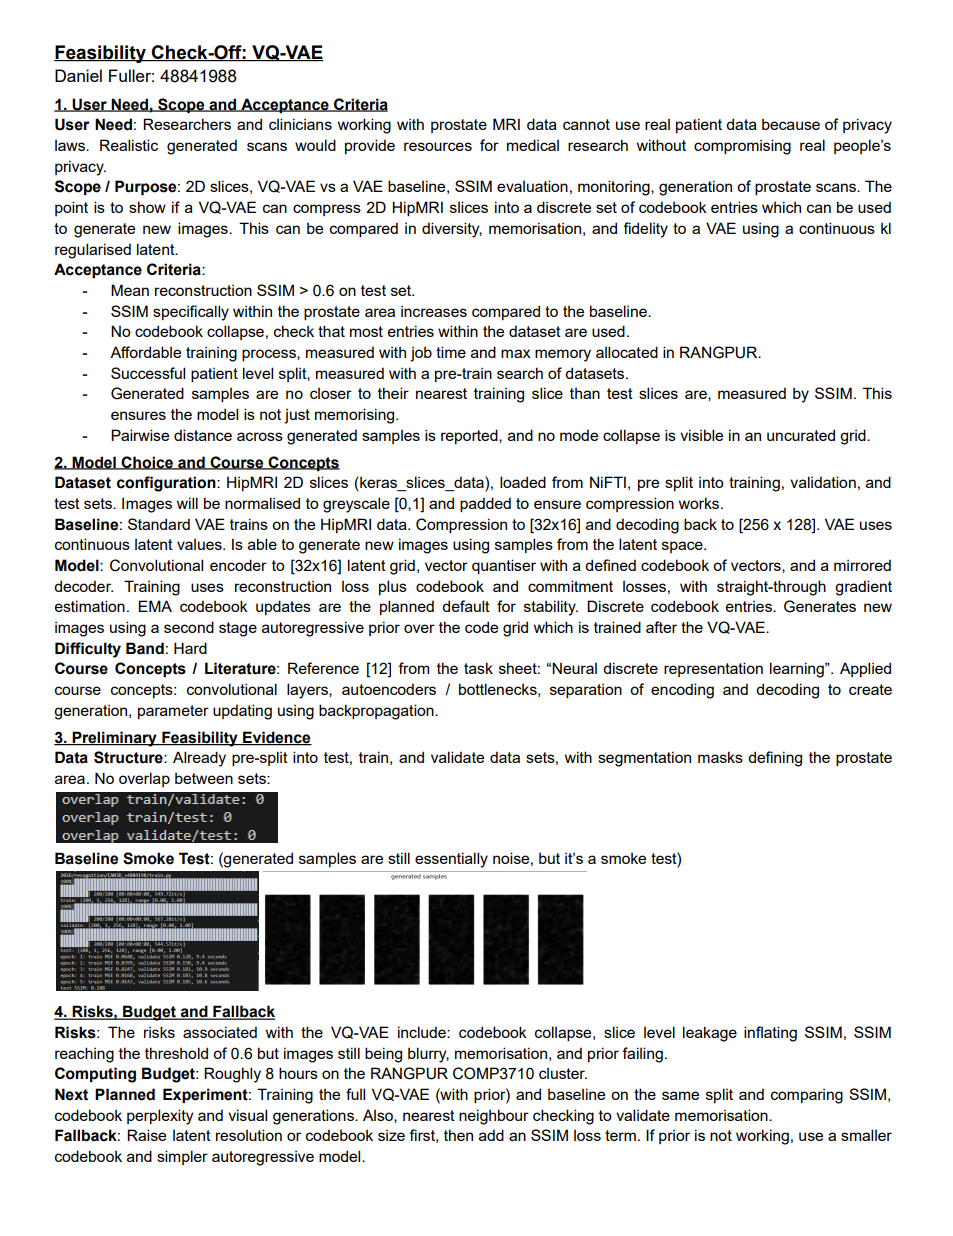
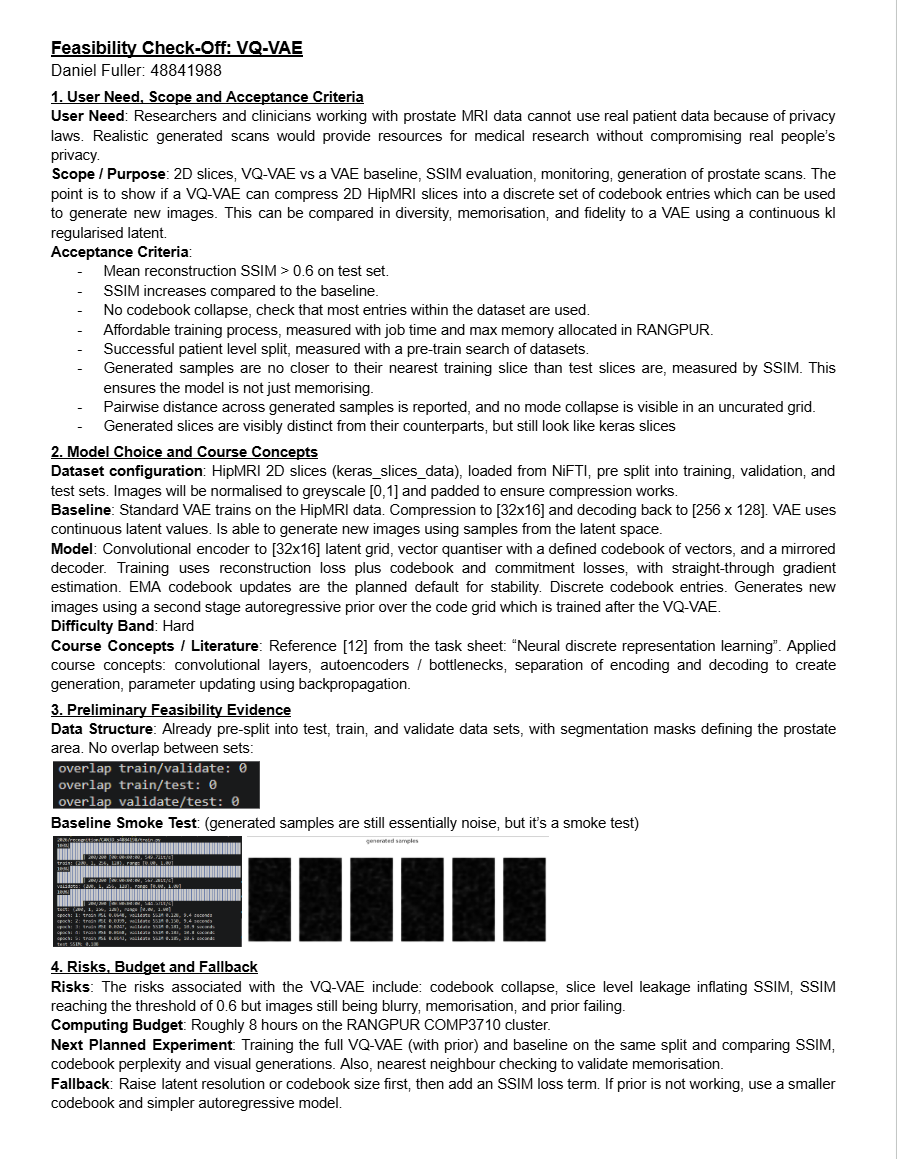
finalisation of documentation. Added the total sample images, did the success criteria, did the conclusion and recommendations, and did some general fixes and cleanup

Changed region(s): [[0.0312, 0.0311, 0.9365, 0.9629], [0.9989, 0.0, 1.0, 1.0]]

diff --git a/recognition/VQVAE_s4884198/README.md b/recognition/VQVAE_s4884198/README.md
@@ -14,12 +14,13 @@ Daniel Fuller: 48841988
 **Acceptance Criteria**: 
 
 - Mean reconstruction SSIM \> 0.6 on test set.   
-- SSIM specifically within the prostate area increases compared to the baseline.   
+- SSIM increases compared to the baseline.   
 - No codebook collapse, check that most entries within the dataset are used.   
 - Affordable training process, measured with job time and max memory allocated in RANGPUR.   
 - Successful patient level split, measured with a pre-train search of datasets.    
 - Generated samples are no closer to their nearest training slice than test slices are, measured by SSIM. This ensures the model is not just memorising.   
 - Pairwise distance across generated samples is reported, and no mode collapse is visible in an uncurated grid. 
+- Generated slices are visibly distinct from their counterparts, but still look like keras slices 
 
 **2\. Model Choice and Course Concepts**   
 **Dataset configuration**: HipMRI 2D slices (keras\_slices\_data), loaded from NiFTI, pre split into training, validation, and test sets. Images will be normalised to greyscale \[0,1\] and padded to ensure compression works.   
@@ -94,7 +95,7 @@ Loads saved pth files and generates results without retraining. This is a comman
 
 predict.py recon vae            <--- reconstruct test slices (original / reconstruction / err)
 
-predict.py recon vqcae          <--- same deal
+predict.py recon vqvae          <--- same deal
 
 predict.py generate vae [match]   <--- sample from the VAE latent
 
@@ -121,7 +122,8 @@ EVALUATION
 - nearest_ssim: memorisation detection. Each generated image is compared with every training slice to find its nearest one, and the result is compared with how close unseen test slices get to the training set. This is used only to detect near-copies. It isn't a quality score 
 - mean_pairwise_ssim: diversity statistic comparing generated samples with real slices
 - interpolate: latenet space interpolation between pairs of real training slices
-- run: evaluates one model and saves figures and a results_[model].json and [table], printing all results side by side. 
+- run(kind, temperature, quick, n_gen): evaluates one model end to end. It loads the checkpoint, computes the paired reconstruction SSIM and MSE, codebook usage, the nearest-neighbour memorisation audit, pairwise diversity and FID, and saves the sample grids, nearest-pairs figure and interpolation figure. It writes all metrics to `results_<model>.json`.
+- table: reads every `results_*.json` file in the folder and prints one markdown table with the models side by side. It is run after run has been called for each model.
 
 **Usage.** 
 edit the ```__main__``` block at the bottom of the file to choose the operation 
@@ -152,7 +154,7 @@ helper function solely to generate training curves from RANGPUR .out files. This
 **usage**
 requires this command line structure:
 
-```python plot_curves.py VAE=vae_full.out VQVAE=vqvae_full.out PRIOR=prior_full.out```
+```python curves.py VAE=vae_full.out VQVAE=vqvae_full.out PRIOR=prior_full.out```
 
 
 
@@ -180,6 +182,7 @@ conda activate torch
 python VQVAE_s4884198/train.py
 ```
 
+- the usage process should generally be train (train.py) -> evaluate (train.py) -> plot curves (curves.py) -> generate if you want to (predict.py)
 
 
 # Process / Adjustments
@@ -190,7 +193,7 @@ python VQVAE_s4884198/train.py
 ![sample](../../images/vae_sample.png)
 ![sample](../../images/vae_reconstructions.png)
 
-- increasing the beta (1e-1) and providing a warmup period for the vae decreased the specificity. In an effort to increase the fidelity of generated images, I also tried reducing the latent dimension of the trained vae. This reduced reconstruction fidelity and reduced the amount that the images looked like pure noise, but it was still unable to produce coherent generated images. 
+- increasing the beta (1e-1) and providing a warmup period for the vae decreased the specificity. In an effort to increase the fidelity of generated images, I also tried reducing the latent dimension of the trained vae. This reduced reconstruction fidelity and reduced the amount that the images looked like pure noise, but it was still unable to produce coherent generated images. This was done locally at a reduced number of epochs (40)
 
 ![sample](../../images/vae_sample_2.png)
 ![sample](../../images/vae_reconstructions_2.png)
@@ -212,7 +215,6 @@ peak VRAM: 0.82 GB
 train: (11460, 1, 256, 128), range [0.00, 1.00]
 validate: (660, 1, 256, 128), range [0.00, 1.00]
 test: (540, 1, 256, 128), range [0.00, 1.00]
-codes: train (11460, 512), val (660, 512), grid 32x16
 ```
 
 prior:
@@ -230,7 +232,6 @@ generation time for 16 images: 2.5s
 # evaluation 
 
 The following are the statistics produced by the full evaluation stat dump after running the eval code on the RANGPUR GPU cluster:
-
 
 | Model | VAE | VQ-VAE Temp 0.9 | VQ-VAE Temp 1.0 |
 | -------- | -------- | -------- | -------- |
@@ -258,7 +259,7 @@ The following are the statistics produced by the full evaluation stat dump after
 
 The three models run in the full evaluation are the baseline VAE, the VQ-VAE at a temp setting of 0.9, and the VQ-VAE at a temp setting of 1.0. The temp setting controls how random the prior's sampling is. Lower temperature picks likelier codes, so the samples are cleaner and more typical, but less varied. 
 
-**Results interpretation**
+## Results interpretation
 
 - reconstruction: The VQVAE reaches a paired test SSIM of 0.806 (MSE 0.0019). This is above the 0.6 target. The baseline reaches 0.447 (MSE 0.0065). The VAE's KL tern trades reconstruction fidelity for a latent space which is better to sample from. 
 - codebook health: all 512 codes are used on the test set, with a perplexity of 334. This implies that the codebook did not collapse, and the EMA updates and dead-code reset worked as intended. 
@@ -270,9 +271,35 @@ The three models run in the full evaluation are the baseline VAE, the VQ-VAE at 
 - temperature tradeoff: lowering the prior temperature from 1.0 to 0.9 improved the FID (207 vs 225) but reduced diversity and moved samples closer to the training set. The difference comes from 64 samples at one seed, so they are indicative and not statistically tested. 
 
 
-**samples**
+## samples
 
-These are some randomly selected samples from the vqvae temp 1.0 generation:
+Here are the uncurated samples generated from the evaluation:
+
+(obviously while the VAE results have become somewhat less noisy, they are still not coherent generations. I was unable to tune parameters / modify the process enough in the time given to produce meaningful generations from my base VAE)
+
+![sample](../../images/vae_samples_seed0.png)
+
+![sample](../../images/vae_samples_seed1.png)
+
+![sample](../../images/vae_samples_seed2.png)
+
+
+![sample](../../images/vqvae_t0.9_samples_seed0.png)
+
+![sample](../../images/vqvae_t0.9_samples_seed1.png)
+
+![sample](../../images/vqvae_t0.9_samples_seed2.png)
+
+![sample](../../images/vqvae_t1.0_samples_seed0.png)
+
+![sample](../../images/vqvae_t1.0_samples_seed1.png)
+
+![sample](../../images/vqvae_t1.0_samples_seed2.png)
+
+
+
+
+These are some selected flawed samples from the vqvae temp 1.0 generation:
 
 <img src="../../images/sample5.png" alt="Description" height="300"><img src="../../images/sample35.png" alt="Description" height="300"><img src="../../images/sample37.png" alt="Description" height="300"><img src="../../images/sample48.png" alt="Description" height="300">
 
@@ -313,8 +340,9 @@ vqvae:
 It can be seen that the base VAE does have a smoother transition between the 2 real samples, while the VQVAE seems to take discrete jumps. It can also be seen that the VAE produces a much blurrier image. I believe this is a result of the nature of the VQVAE, having a discrete codebook.   
 
 
-**resource usage**
+## resource usage
 | model| VAE | VQVAE | VQVAE prior| 
+| -------- | -------- | -------- | -------- |
 |peak vram|0.85 GB |0.82 GB | 2.85 GB | 
 | approx. time per epoch | 2.8 seconds | 3.0 seconds | 14.2 seconds| 
 
@@ -323,7 +351,7 @@ It can be seen that the VAE and VQVAE are relatively cheap to train, probably ab
 As for generation, the VAE generates images in 0.02 seconds vs the 8.3 to 8.6 seconds needed by the prior and VQVAE. While the VAE is cheaper in terms of image generation, it is significantly outpaced by the VQVAE in terms of image quality generation. 
 
 
-**training curves**
+## training curves
 
 Here are the generated training curves from the rangpur .out files 
 
@@ -338,3 +366,42 @@ The VQVAE plateaus at roughly 0.78 SSIM, well above the defined goal of 0.6.
 
 Judging from the prior cross entropy training vs validation loss, the decision to increase the epoch count likely contributed to increased overfitting, as evident by the plateau in validation while training still goes down. That being said, the model is saved at lowest validation score rather than train score, (as seen on the marked star) so this avoids using just the most recent and lowest training loss settings.  
 
+
+## success criteria assessment 
+- Mean reconstruction SSIM \> 0.6 on test set. SUCCESS, VQVAE reaches reconstruction SSIM of 0.806
+- SSIM increases compared to the baseline. SUCCESS, the final VAE reaches a SSIM of 0.447 compared to the VQVAE of 0.806. It is worth noting that the more specific VAE did achieve a reconstruction SSIM higher than both of these, however, it performed worse than both in terms of image generation, so the most recent VAE is being considered for this. 
+- No codebook collapse, check that most entries within the dataset are used. SUCCESS, the final VQVAE uses all 512 codebook entries with a perplexity of 334. 
+- Affordable training process, measured with job time and max memory allocated in RANGPUR. SUCCESS, the VAE and VQVAE are both very cheap in terms of peak vram and time per epoch, both being measuring roughly 8.5 gig peak vram and 3 seconds per epoch. The prior is more expensive comparitively, coming in at 2.85 gig peak vram and 14.2 seconds per training epoch. In terms of image generation, the 64 generated images took between 6.3 and 6.6 seconds for the VQVAE, which is much more expensive than the regular VAE, which does it in 0.02 seconds, but this is justified by the increase in generation quality (FID 207 / 225 vs 494).   
+- Successful patient level split, measured with a pre-train search of datasets. SUCCESS, the original splits don't contain any overlap. 
+actual check_overlap() output:
+```
+train 11460 slices, 31 patient ids
+validate 660 slices, 4 patient ids
+test 540 slices, 3 patient ids
+overlap train/validate: 0
+overlap train/test: 0
+overlap validate/test: 0
+```
+- Generated samples are no closer to their nearest training slice than test slices are, measured by SSIM. This ensures the model is not just memorising. PARTIAL, the mean nearest neighbour SSIM to the training set is 0.392 for t=1.0 and 0.420 for t=0.9 for generated samples, against 0.368 for unseen test slices. 17% (t=1.0) and 39% (t=0.9) of generated samples exceed the 95th percentile of the test distribution, where about 5% would be expected. Generated images are therefore somewhat closer to the training set than real unseen scans are. However, the closest any generated sample came to a training slice was SSIM 0.49, far below the range expected of a copy (expected to be above 0.8), and the nearest-pairs figures show only shared overall pelvic structure. This suggests drift towards typical anatomy rather than memorisation, but the criterion as written is not strictly satisfied. Lowering the temperature to 0.9 improves FID but increases this effect. (The VAE's 0% is not meaningful, because its samples are poor and far from every real slice.)
+- Pairwise distance across generated samples is reported, and no mode collapse is visible in an uncurated grid. SUCCESS, mean pairwise SSIM between VQ-VAE samples is 0.295 (t=1.0) and 0.320 (t=0.9), against 0.259 for real slices. Samples are slightly more similar to each other than real slices are, so diversity is somewhat reduced, but far from a collapsed generator (which would approach 1.0). The uncurated grids show varied positions, shapes and contrast. The VAE's samples are the least diverse (0.400). Pairwise SSIM is used here only as a diversity statistic.
+- Generated slices are visibly distinct from their counterparts, but still look like keras slices. SUCCESS, in the nearest-paris figures, generated images (specifically temp = 0.9 VQVAE generated ones) share similar overall structure, but differ enough to be visibly distinct. While the samples show blur, mild background noise and some asymmetry, the body outline and bone structure are recognisable as HipMRI slices. However, this is a visual judgement by a non-expert, with no clinical validation.
+
+
+## conclusion and recommendation 
+
+This was a comparison of a VQVAE with an autoregressive prior against a VAE baseline for generating 2D prostate MRI images (HipMRI), judging them on reconstructive fidelity, sample quality, diversity and memorisation. 
+
+**findings** 
+- The VQ-VAE reconstructs unseen slices well (paired test SSIM 0.806, above the 0.6 target) and uses all 512 codebook entries (perplexity 334), so the codebook did not collapse. The final VAE reached 0.447 reconstruction SSIM, after adjustments were made to increase generative output, but still was unable to produce coherent images from random latent space samples.
+- The VQ-VAE with prior generates samples much closer to the real data distribution than the VAE (FID 207 to 225 against 494, a relative comparison on 500 samples with features not trained on MRI). Its samples keep a recognisable overall structure, but show blur, mild background noise and some asymmetry.
+- No generated image is near a copy of a training slice (highest nearest-neighbour SSIM 0.49). However, generated samples sit somewhat closer to the training set than unseen real scans do (17% to 39% above the test 95th percentile, against about 5% expected), and the prior does experience overfitting (train cross-entropy about 3.47, validation about 3.97). This means that the memorisation criteria is the only one which is partially met.
+- Samples are slightly less diverse than real slices (pairwise SSIM 0.295 to 0.320 against 0.259), with no sign of mode collapse.
+
+**Recommendation**
+
+The VQ-VAE with prior is the better generator of the two models by a significant margin. It can't be recommend to release the generated cohort as a privacy-safe substitute for real patient data on this evidence alone. There is no sign of verbatim copying, but the measurements are imperfect: nearest-neighbour SSIM only detects pixel-level copies, the sample sizes are small, and no clinician has reviewed whether the anatomy is plausible. Before any release, I suggest an expert review of the data.
+
+**Limitations**
+- Results come from a single training run per model and one sampling seed per grid, with no confidence intervals.
+- The reported VAE was trained locally and the other results on the Rangpur cluster.
+- The nearest-neighbour test uses the pre-split training set, and patient overlap between splits was checked only through filename IDs.
